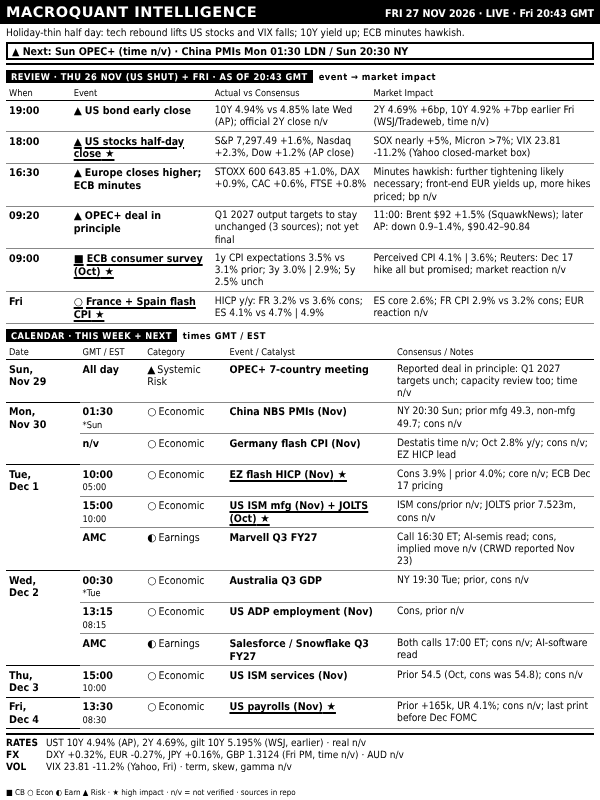
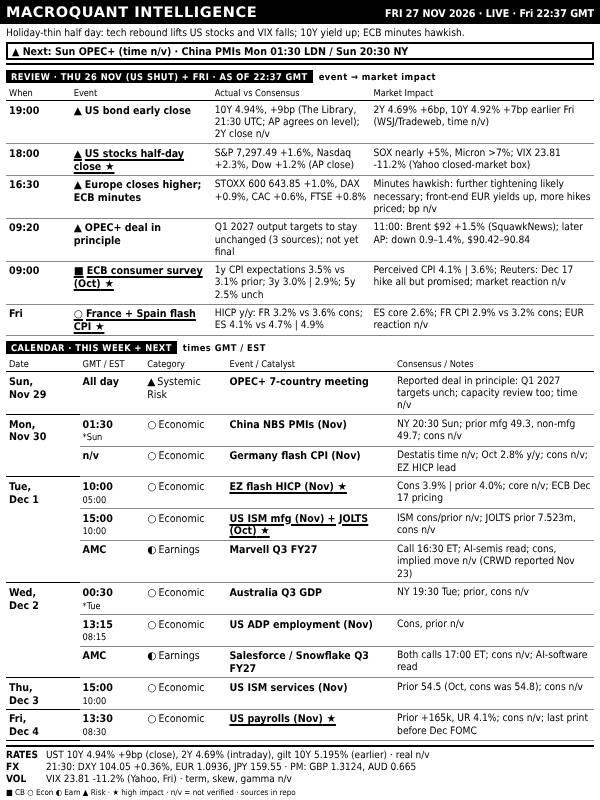
dashboard: FRI 27 NOV 2026 LIVE 22:37
Claude-Session: https://claude.ai/code/session_016SJqa7vNNdMz8oKFmR7PMS

diff --git a/out/dashboard.html b/out/dashboard.html
@@ -38,12 +38,12 @@ table.bd{border-collapse:collapse;width:100%;table-layout:fixed;margin-top:1px}
 </style></head><body>
 <div id="root">
  <div class="hdr"><span class="t">MACROQUANT INTELLIGENCE</span>
-  <span class="r">FRI 27 NOV 2026 · LIVE · Fri 20:43 GMT</span></div>
+  <span class="r">FRI 27 NOV 2026 · LIVE · Fri 22:37 GMT</span></div>
  <div class="ban"><div class="rg">Holiday-thin half day: tech rebound lifts US stocks and VIX falls; 10Y yield up; ECB minutes hawkish.</div><div class="al">▲ Next: Sun OPEC+ (time n/v) · China PMIs Mon 01:30 LDN / Sun 20:30 NY</div></div>
- <div class="sl"><span>REVIEW · THU 26 NOV (US SHUT) + FRI · AS OF 20:43 GMT</span>event → market impact</div><table class="bd rv"><colgroup><col style="width:11%"><col style="width:24%"><col style="width:27%"><col></colgroup><tr><th>When</th><th>Event</th><th>Actual vs Consensus</th><th>Market Impact</th></tr><tr><td class="tm"><b>19:00</b></td><td class="ev"><i>▲</i>US bond early close</td><td class="ac">10Y 4.94% vs 4.85% late Wed (AP); official 2Y close n/v</td><td class="nt">2Y 4.69% +6bp, 10Y 4.92% +7bp earlier Fri (WSJ/Tradeweb, time n/v)</td></tr><tr class="h"><td class="tm"><b>18:00</b></td><td class="ev"><i>▲</i>US stocks half-day close</td><td class="ac">S&amp;P 7,297.49 +1.6%, Nasdaq +2.3%, Dow +1.2% (AP close)</td><td class="nt">SOX nearly +5%, Micron &gt;7%; VIX 23.81 -11.2% (Yahoo closed-market box)</td></tr><tr><td class="tm"><b>16:30</b></td><td class="ev"><i>▲</i>Europe closes higher; ECB minutes</td><td class="ac">STOXX 600 643.85 +1.0%, DAX +0.9%, CAC +0.6%, FTSE +0.8%</td><td class="nt">Minutes hawkish: further tightening likely necessary; front-end EUR yields up, more hikes priced; bp n/v</td></tr><tr><td class="tm"><b>09:20</b></td><td class="ev"><i>▲</i>OPEC+ deal in principle</td><td class="ac">Q1 2027 output targets to stay unchanged (3 sources); not yet final</td><td class="nt">11:00: Brent $92 +1.5% (SquawkNews); later AP: down 0.9–1.4%, $90.42–90.84</td></tr><tr class="h"><td class="tm"><b>09:00</b></td><td class="ev"><i>■</i>ECB consumer survey (Oct)</td><td class="ac">1y CPI expectations 3.5% vs 3.1% prior; 3y 3.0% | 2.9%; 5y 2.5% unch</td><td class="nt">Perceived CPI 4.1% | 3.6%; Reuters: Dec 17 hike all but promised; market reaction n/v</td></tr><tr class="h"><td class="tm"><b>Fri</b></td><td class="ev"><i>○</i>France + Spain flash CPI</td><td class="ac">HICP y/y: FR 3.2% vs 3.6% cons; ES 4.1% vs 4.7% | 4.9%</td><td class="nt">ES core 2.6%; FR CPI 2.9% vs 3.2% cons; EUR reaction n/v</td></tr></table>
+ <div class="sl"><span>REVIEW · THU 26 NOV (US SHUT) + FRI · AS OF 22:37 GMT</span>event → market impact</div><table class="bd rv"><colgroup><col style="width:11%"><col style="width:24%"><col style="width:27%"><col></colgroup><tr><th>When</th><th>Event</th><th>Actual vs Consensus</th><th>Market Impact</th></tr><tr><td class="tm"><b>19:00</b></td><td class="ev"><i>▲</i>US bond early close</td><td class="ac">10Y 4.94%, +9bp (The Library, 21:30 UTC; AP agrees on level); 2Y close n/v</td><td class="nt">2Y 4.69% +6bp, 10Y 4.92% +7bp earlier Fri (WSJ/Tradeweb, time n/v)</td></tr><tr class="h"><td class="tm"><b>18:00</b></td><td class="ev"><i>▲</i>US stocks half-day close</td><td class="ac">S&amp;P 7,297.49 +1.6%, Nasdaq +2.3%, Dow +1.2% (AP close)</td><td class="nt">SOX nearly +5%, Micron &gt;7%; VIX 23.81 -11.2% (Yahoo closed-market box)</td></tr><tr><td class="tm"><b>16:30</b></td><td class="ev"><i>▲</i>Europe closes higher; ECB minutes</td><td class="ac">STOXX 600 643.85 +1.0%, DAX +0.9%, CAC +0.6%, FTSE +0.8%</td><td class="nt">Minutes hawkish: further tightening likely necessary; front-end EUR yields up, more hikes priced; bp n/v</td></tr><tr><td class="tm"><b>09:20</b></td><td class="ev"><i>▲</i>OPEC+ deal in principle</td><td class="ac">Q1 2027 output targets to stay unchanged (3 sources); not yet final</td><td class="nt">11:00: Brent $92 +1.5% (SquawkNews); later AP: down 0.9–1.4%, $90.42–90.84</td></tr><tr class="h"><td class="tm"><b>09:00</b></td><td class="ev"><i>■</i>ECB consumer survey (Oct)</td><td class="ac">1y CPI expectations 3.5% vs 3.1% prior; 3y 3.0% | 2.9%; 5y 2.5% unch</td><td class="nt">Perceived CPI 4.1% | 3.6%; Reuters: Dec 17 hike all but promised; market reaction n/v</td></tr><tr class="h"><td class="tm"><b>Fri</b></td><td class="ev"><i>○</i>France + Spain flash CPI</td><td class="ac">HICP y/y: FR 3.2% vs 3.6% cons; ES 4.1% vs 4.7% | 4.9%</td><td class="nt">ES core 2.6%; FR CPI 2.9% vs 3.2% cons; EUR reaction n/v</td></tr></table>
  <div class="sl"><span>CALENDAR · THIS WEEK + NEXT</span>times GMT / EST</div>
  <table class="bd"><colgroup><col style="width:12.5%"><col style="width:11%"><col style="width:14%"><col style="width:28.5%"><col></colgroup><tr><th>Date</th><th>GMT / EST</th><th>Category</th><th>Event / Catalyst</th><th>Consensus / Notes</th></tr><tr class="g0"><td class="dt" rowspan="1">Sun,<br>Nov&nbsp;29</td><td class="tm"><b>All day</b></td><td class="ct"><i>▲</i>Systemic Risk</td><td class="ev">OPEC+ 7-country meeting</td><td class="nt">Reported deal in principle: Q1 2027 targets unch; capacity review too; time n/v</td></tr><tr class="g0"><td class="dt" rowspan="2">Mon,<br>Nov&nbsp;30</td><td class="tm"><b>01:30</b><span>*Sun</span></td><td class="ct"><i>○</i>Economic</td><td class="ev">China NBS PMIs (Nov)</td><td class="nt">NY 20:30 Sun; prior mfg 49.3, non-mfg 49.7; cons n/v</td></tr><tr class=""><td class="tm"><b>n/v</b></td><td class="ct"><i>○</i>Economic</td><td class="ev">Germany flash CPI (Nov)</td><td class="nt">Destatis time n/v; Oct 2.8% y/y; cons n/v; EZ HICP lead</td></tr><tr class="g0 h"><td class="dt" rowspan="3">Tue,<br>Dec&nbsp;1</td><td class="tm"><b>10:00</b><span>05:00</span></td><td class="ct"><i>○</i>Economic</td><td class="ev">EZ flash HICP (Nov)</td><td class="nt">Cons 3.9% | prior 4.0%; core n/v; ECB Dec 17 pricing</td></tr><tr class="h"><td class="tm"><b>15:00</b><span>10:00</span></td><td class="ct"><i>○</i>Economic</td><td class="ev">US ISM mfg (Nov) + JOLTS (Oct)</td><td class="nt">ISM cons/prior n/v; JOLTS prior 7.523m, cons n/v</td></tr><tr class=""><td class="tm"><b>AMC</b></td><td class="ct"><i>◐</i>Earnings</td><td class="ev">Marvell Q3 FY27</td><td class="nt">Call 16:30 ET; AI-semis read; cons, implied move n/v (CRWD reported Nov 23)</td></tr><tr class="g0"><td class="dt" rowspan="3">Wed,<br>Dec&nbsp;2</td><td class="tm"><b>00:30</b><span>*Tue</span></td><td class="ct"><i>○</i>Economic</td><td class="ev">Australia Q3 GDP</td><td class="nt">NY 19:30 Tue; prior, cons n/v</td></tr><tr class=""><td class="tm"><b>13:15</b><span>08:15</span></td><td class="ct"><i>○</i>Economic</td><td class="ev">US ADP employment (Nov)</td><td class="nt">Cons, prior n/v</td></tr><tr class=""><td class="tm"><b>AMC</b></td><td class="ct"><i>◐</i>Earnings</td><td class="ev">Salesforce / Snowflake Q3 FY27</td><td class="nt">Both calls 17:00 ET; cons n/v; AI-software read</td></tr><tr class="g0"><td class="dt" rowspan="1">Thu,<br>Dec&nbsp;3</td><td class="tm"><b>15:00</b><span>10:00</span></td><td class="ct"><i>○</i>Economic</td><td class="ev">US ISM services (Nov)</td><td class="nt">Prior 54.5 (Oct, cons was 54.8); cons n/v</td></tr><tr class="g0 h"><td class="dt" rowspan="1">Fri,<br>Dec&nbsp;4</td><td class="tm"><b>13:30</b><span>08:30</span></td><td class="ct"><i>○</i>Economic</td><td class="ev">US payrolls (Nov)</td><td class="nt">Prior +165k, UR 4.1%; cons n/v; last print before Dec FOMC</td></tr></table>
- <div class="lv"><div><b>RATES</b>UST 10Y 4.94% (AP), 2Y 4.69%, gilt 10Y 5.195% (WSJ, earlier) · real n/v</div><div><b>FX</b>DXY +0.32%, EUR -0.27%, JPY +0.16%, GBP 1.3124 (Fri PM, time n/v) · AUD n/v</div><div><b>VOL</b>VIX 23.81 -11.2% (Yahoo, Fri) · term, skew, gamma n/v</div></div>
+ <div class="lv"><div><b>RATES</b>UST 10Y 4.94% +9bp (close), 2Y 4.69% (intraday), gilt 10Y 5.195% (earlier) · real n/v</div><div><b>FX</b>21:30: DXY 104.05 +0.36%, EUR 1.0936, JPY 159.55 · PM: GBP 1.3124, AUD 0.665</div><div><b>VOL</b>VIX 23.81 -11.2% (Yahoo, Fri) · term, skew, gamma n/v</div></div>
 </div>
 <div class="foot">■ CB ○ Econ ◐ Earn ▲ Risk · ★ high impact · n/v = not verified · sources in repo</div>
 </body></html>
